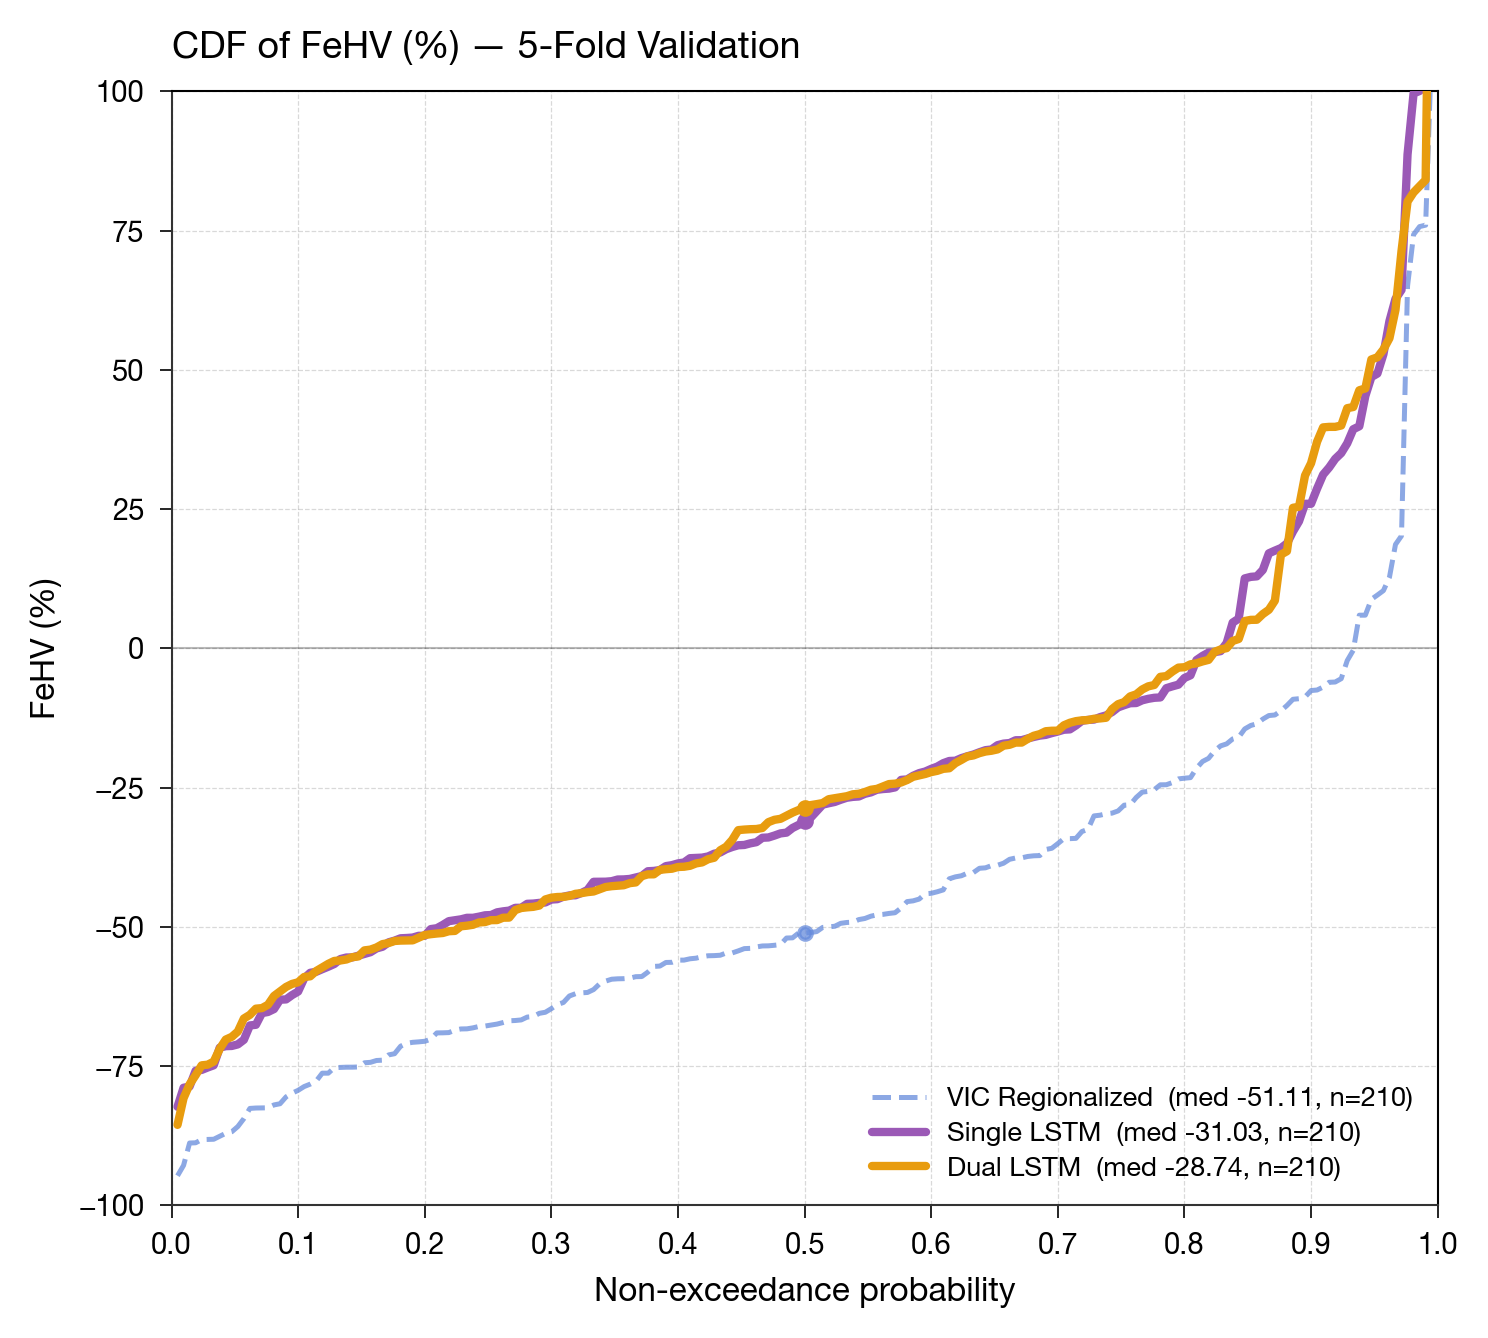
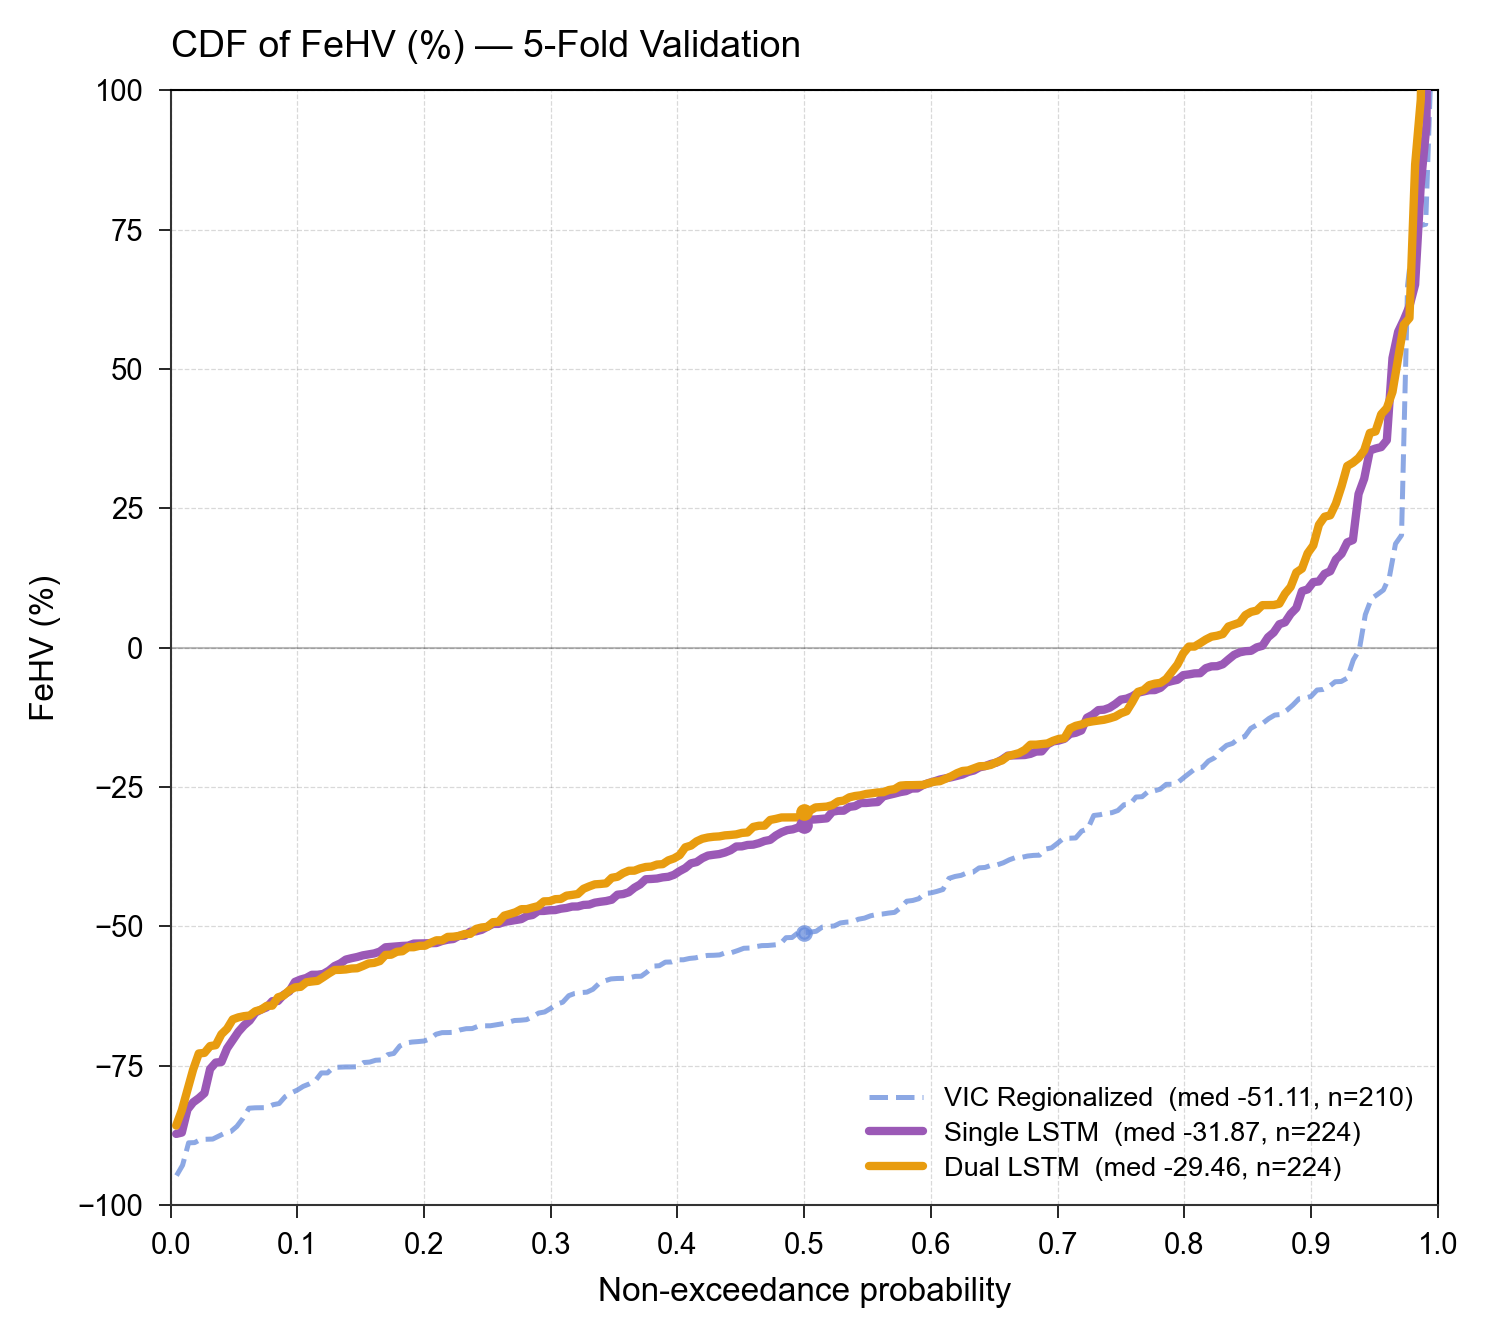
Refresh docs, fix CDEC barplot, and update eval outputs
- docs/models: add CDEC basin count (224 total), metric definitions
  (NSE/KGE/FHV/FeHV/FLV), CDEC FNF evaluation section, explicit
  post_process.py flag reference, SWA two-phase detail, MoE tau formula
  fix; complete dual LSTM config table with missing fields
- src/eval/cdec.py: fix obs reference column lookup to accept 'obs'
  (current column name) in addition to legacy 'obs_mm'; remove stale
  'dPL' label from warning message
- data/eval: add cdec_barplot.png; rename *_kfold.csv to *.csv;
  refresh CDF/barplot figures with new CDEC-inclusive LSTM results
- Move compare_runs.py to scripts/compare_runs.py

diff --git a/src/eval/cdec.py b/src/eval/cdec.py
@@ -178,12 +178,13 @@ def evaluate_cdec(
             except FileNotFoundError:
                 continue
             df = pd.read_csv(path, parse_dates=["date"], index_col="date")
-            if "obs_mm" in df.columns:
-                obs_ref_series = _clip(df["obs_mm"]).dropna()
+            obs_col_ref = next((c for c in ("obs_mm", "obs") if c in df.columns), None)
+            if obs_col_ref:
+                obs_ref_series = _clip(df[obs_col_ref]).dropna()
                 break
 
         if obs_ref_series is None:
-            print(f"  WARNING: no dPL obs_mm for {cdec_code} ({pourpt_id}) — skipping")
+            print(f"  WARNING: no observed series for {cdec_code} ({pourpt_id}) — skipping")
             continue
 
         # Conventional SAC-SMA vs dPL obs

diff --git a/docs/models/lstm.md b/docs/models/lstm.md
@@ -232,6 +232,7 @@ Important settings in the active config:
 | --- | --- |
 | `model_type` | `single` |
 | `training_manifest` | `gages` |
+| `include_cdec_basins` | `true` |
 | `seq_len` | `365` |
 | `single_hidden_size` | `128` |
 | `static_embedding_dim` | `10` |
@@ -289,6 +290,7 @@ Important settings in the active config:
 | --- | --- |
 | `model_type` | `dual` |
 | `training_manifest` | `gages` |
+| `include_cdec_basins` | `true` |
 | `seq_len` | `365` |
 | `fast_window` | `28` |
 | `fast_hidden_size` | `64` |
@@ -298,6 +300,10 @@ Important settings in the active config:
 | `extreme_start_quantile` | `0.98` |
 | `extreme_top_quantile` | `0.995` |
 | `extreme_peak_boost` | `30.0` |
+| `log_loss_lambda` | `0.05` |
+| `basin_loss_weight_exponent` | `0.25` |
+| `batch_size` | `512` |
+| `use_swa` | `true` |
 
 ## Dual-Pathway LSTM With CMAL
 
@@ -376,8 +382,8 @@ flowchart TD
     TimeAttn["temporal attention<br/>alpha_t"]:::seq
     Context["gate context c"]:::seq
     Logits["expert logits z"]:::head
-    Tau["tau = sigmoid(log_tau)<br/>tau_eff = max(tau, tau_min)"]:::head
-    Pi["pi = softmax(z / tau_eff)"]:::head
+    Tau["tau = tau_min + (1 - tau_min) * sigmoid(log_tau)"]:::head
+    Pi["pi = softmax(z / tau)"]:::head
     Mix["m = sum_k pi_k h_k"]:::head
     Head["Softplus flow head"]:::head
     Scale["ScaleHead"]:::head
@@ -427,10 +433,22 @@ All LSTM-family configs run through [train_kfold.py](./../../scripts/train_kfold
 2. For each fold, compute normalization statistics from training basins only.
 3. Train with AdamW, input noise, gradient clipping, warmup, and cosine annealing.
 4. Select checkpoints by `validation_selection_metric`, usually validation loss.
-5. When `use_swa = true`, start a Stochastic Weight Averaging phase after the raw phase plateaus; promote SWA only when it beats the raw checkpoint under the same selection metric.
+5. When `use_swa = true`, start a Stochastic Weight Averaging phase after the raw phase exhausts its `patience` budget; the raw best is saved as `best_raw_model.pt`. The SWA phase runs up to `swa_patience` additional epochs at the fixed `swa_lr`, with the patience counter reset. SWA weights are saved as `swa_model.pt` and promoted to `best_model.pt` only when they improve on the raw best under the same selection metric; otherwise `best_raw_model.pt` is promoted.
 6. Reload the selected checkpoint and evaluate held-out basins.
 
 Validation loss is batch-averaged, but NSE and KGE are computed per basin in denormalized mm/day and then aggregated by median. The final basin result CSVs also include flow-volume and high/low-flow diagnostics.
+
+## Evaluation Metrics
+
+Five scalar metrics are computed per basin in denormalized mm/day and then aggregated by tier median:
+
+- **NSE** (Nash–Sutcliffe Efficiency): `1 - Σ(obs-sim)² / Σ(obs-mean)²`. Perfect = 1; climatological mean = 0; worse than mean < 0.
+- **KGE** (Kling–Gupta Efficiency): `1 - √[(r-1)² + (β-1)² + (γ-1)²]`. Decomposes error into correlation (*r*), bias ratio (*β*), and variability ratio (*γ*).
+- **FHV** (High-flow volume bias): percent bias over the top 2 % of the flow-duration curve.
+- **FeHV** (Extreme high-flow volume bias): percent bias over the top 1 % of the flow-duration curve.
+- **FLV** (Low-flow volume bias): percent bias over the bottom 30 % of the flow-duration curve.
+
+Tier 2 (transitional mixed rain/snow) median NSE and KGE are the headline cross-validation metrics. All five metrics are written to `fold_<n>/basin_results.csv` and aggregated in `all_fold_results.csv`.
 
 ## Outputs And Diagnostics
 
@@ -448,6 +466,18 @@ Common outputs are:
 - `all_fold_results.csv`: concatenated held-out basin metrics across folds.
 
 Diagnostic interpretation depends on architecture. For single/MoE baselines, `q_fast` and `q_slow` are placeholders. For dual and regime models, pathway outputs are useful diagnostics, but they are not observed physical truth; they are shaped by architecture and Lyne-Hollick-derived supervision.
+
+## CDEC FNF Basin Evaluation
+
+14 CDEC full-natural-flow (FNF) reservoir basins are included in training when `include_cdec_basins = true`. These are pseudo-gauges (IDs ≥ 990 000 000) reconstructed from reservoir inflow records. BND is excluded due to missing static attributes. Station-to-PourPtID mappings are defined in `src/eval/cdec.py:CDEC_MAP`.
+
+A dedicated post-training comparison (`post_process.py --cdec-barplot`) evaluates trained neural models against the conventional **SAC-SMA** model over the post-calibration window **2003-10-01 – 2018-09-30**. SAC-SMA daily simulations (mm/day) are in `data/external/sacsma15cdec/climate_historical/`. The comparison covers NSE, KGE, FHV, FeHV, and FLV across all 14 basins:
+
+```bash
+python scripts/post_process.py --cdec-barplot dual_lstm single_lstm
+```
+
+The SAC-SMA series is also served by the Streamflow Explorer web app on CDEC basin timeseries charts (converted to CFS using the same mm/day → CFS factor applied to LSTM outputs).
 
 ## Main Limitations
 

diff --git a/docs/models/overview.md b/docs/models/overview.md
@@ -100,7 +100,7 @@ python scripts/train_kfold.py scripts/cfg_single_lstm.toml
 
 Every active model is trained with spatial cross-validation: basins are split, not timesteps. The goal is ungauged-basin generalization, so no basin appears in both train and validation within a fold.
 
-All active configs use `training_manifest = "gages"`, which uses the gauge watershed domain after optional CDEC filtering and source intersection. Normalization statistics are computed from training basins only. Validation basins are held out for statistics, model fitting, and checkpoint selection except for their fixed metadata needed to construct tensors and report metrics.
+All active configs use `training_manifest = "gages"`, which uses the gauge watershed domain after optional CDEC filtering and source intersection. The active trained runs include 210 USGS gauge watersheds plus 14 CDEC FNF pseudo-gauge basins (224 total) after QA/QC filtering and static-attribute intersection. Normalization statistics are computed from training basins only. Validation basins are held out for statistics, model fitting, and checkpoint selection except for their fixed metadata needed to construct tensors and report metrics.
 
 ```mermaid
 flowchart LR
@@ -153,7 +153,16 @@ Typical training outputs are:
 - `data/training/output/<run>/fold_<n>/basin_results.csv`
 - `data/training/output/<run>/fold_<n>/timeseries/<basin_id>.csv`
 
-Post-processing is handled by [post_process.py](./../../scripts/post_process.py). It can compute evaluation products, create CDF/barplot figures, and simulate historical timeseries from trained checkpoints.
+Post-processing is handled by [post_process.py](./../../scripts/post_process.py):
+
+```bash
+python scripts/post_process.py --eval dual_lstm single_lstm          # per-basin metrics → data/eval/*_kfold.csv
+python scripts/post_process.py --cdf --barplot --runs dual_lstm ...  # CDF + median barplot PNGs
+python scripts/post_process.py --simulate dual_lstm --target training_watersheds  # historical sim CSVs
+python scripts/post_process.py --cdec-barplot dual_lstm single_lstm  # SAC-SMA vs neural on 14 CDEC basins
+```
+
+After regenerating sim products, run `python -m app.build_data` to refresh the Streamflow Explorer app's Parquet bundles in `app/data/timeseries/`.
 
 ## Code Map
 

diff --git a/README.md b/README.md
@@ -2,9 +2,8 @@
 
 Daily streamflow prediction for California watersheds using neural hydrology models.
 
-The project is under active development. Model architectures, configs, and results may change as experiments are retrained.
-
-## What This Project Does
+> [!WARNING]
+> The project is under active development. Model architectures, configs, and results may change as experiments are retrained.
 
 Most models predict today's streamflow from observed daily climate forcing and static watershed attributes. They are hindcast or reconstruction models, not streamflow-forecast systems.
 
@@ -44,13 +43,9 @@ python scripts/post_process.py --cdf --barplot --runs single_lstm
 python scripts/post_process.py --simulate dual_lstm --target training_watersheds
 ```
 
-## Model Families
+## Docs
 
 Architecture details are consolidated by family under [docs/models/overview.md](docs/models/overview.md).
-
-| Family | Main configs | Details |
-| --- | --- | --- |
-| LSTM gauge models | `cfg_single_lstm.toml`, `cfg_dual_lstm.toml`, `cfg_dual_lstm_cmal.toml`, `cfg_moe_lstm.toml` | [docs/models/lstm.md](docs/models/lstm.md) |
 
 ## Repository Layout
 
@@ -64,6 +59,8 @@ docs/        Sphinx docs and model-family documentation
 ```
 
 ## Web App
+
+The backend is FastAPI and the frontend is React + Leaflet. The app serves prepared GeoJSON layers and timeseries data from `app/data/` and `data/eval/` products.
 
 Build it with:
 
@@ -86,9 +83,3 @@ Serve the Streamflow Explorer app locally with:
 python -m app serve
 python -m app serve --port 9000
 ```
-
-The backend is FastAPI and the frontend is React + Leaflet. The app serves prepared GeoJSON layers and timeseries data from `app/data/` and `data/eval/` products.
-
-## Notes For Contributors
-
-Use the `neuralhyd` environment for scripts. All cross-validation model families run through `scripts/train_kfold.py` with an explicit TOML config. Named configs use the `cfg_<model>.toml` convention and derive stable output directories from their filenames. Keep architecture documentation in the model-family pages when model behavior, inputs, losses, or training schedules change.
